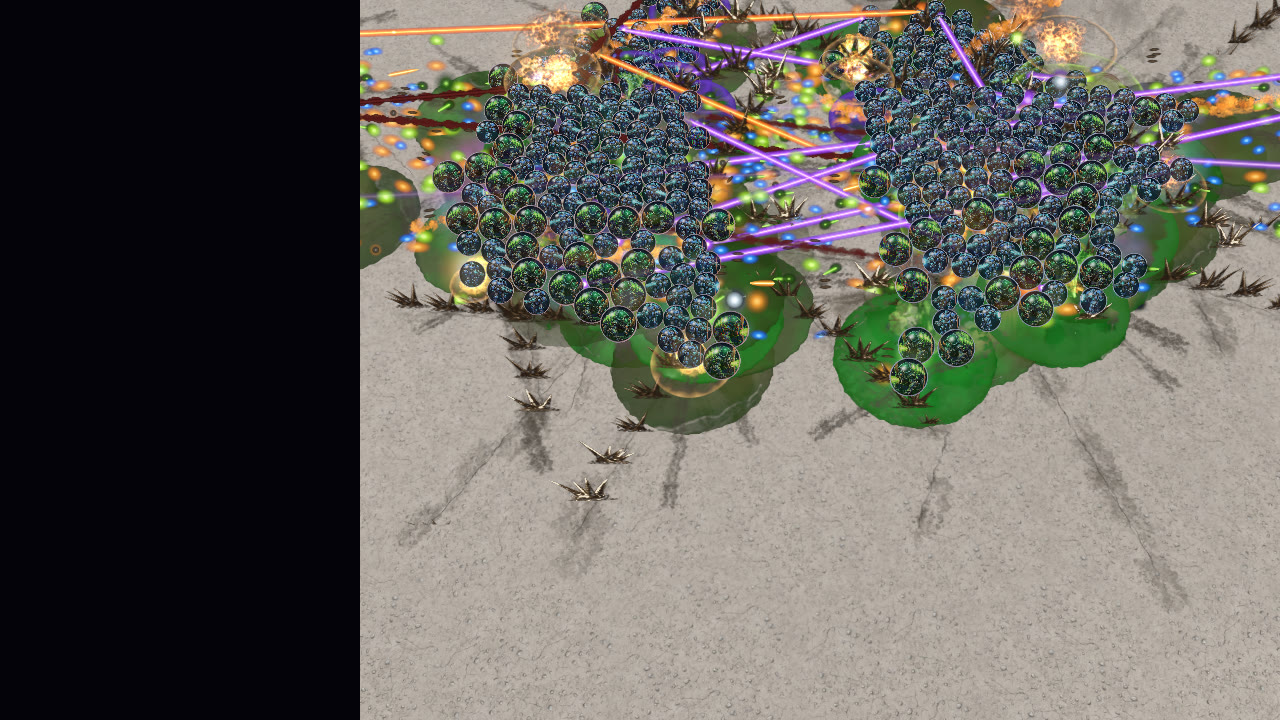
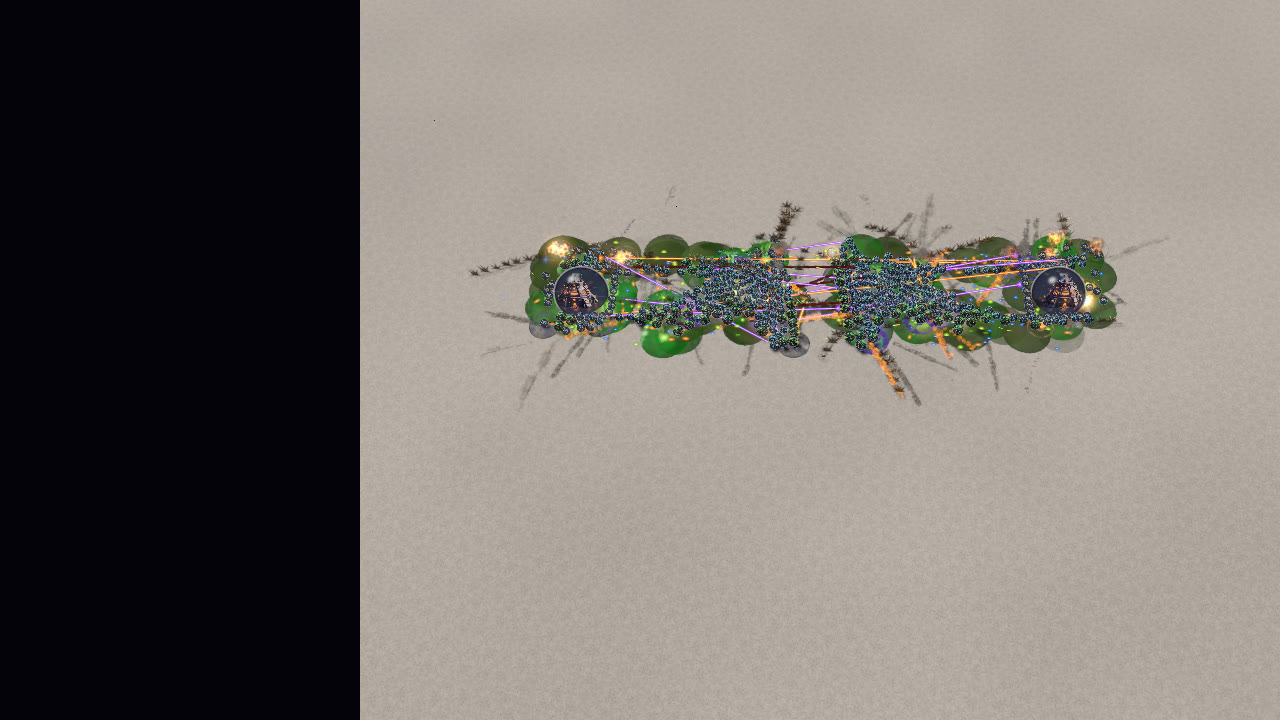
docs(effects WP14): round 2 packet section, crowd frames retaken at the far view (W14-6)
The crowd frames are retaken at the spec's far view and tick 150, as in WP6c, so the whole fight
is in frame; frame_budget_wp14.md gives their figures. The review packet's "WP14 round 2" section
answers each finding of independent_review_wp14_1.md, with the entrench strip.

Claude-Session: https://claude.ai/code/session_01Tj7a5XZ4mBxWXnyoUg8xVU

diff --git a/docs/evidence/effects/review/independent_review_packet.md b/docs/evidence/effects/review/independent_review_packet.md
@@ -7,6 +7,23 @@ effects against each of the seven checklist items, write **accept** or **reject*
 sheet, which cell or frame, what you see), and put your review in a new file next to this one
 (round 5: `independent_review_round5.md`, see "Round 5" below).
 
+## WP14 round 2 (the conditions of `independent_review_wp14_1.md`)
+
+Branch `effects-viz-wp14`; plan Amendment 31 (corrected in place). Pictures on radv, release build, 1280x720.
+Please write the review of this round (if one is asked) to `independent_review_wp14_2.md`.
+
+| Finding | Answer |
+|---|---|
+| C2, W14-2: `entrench` shows none of its looks | Re-staged in data (`showcase.ron`): the orbit is centred on the siege line (7.5, 5.5) from its open side, the hall behind it, distance 10, pitch 68°. The line holds where it spawns: the scorpions carry no weapon until they burrow, so an attack-move would leave them behind. [wp14_entrench_strip_radv.jpg](wp14_entrench_strip_radv.jpg): frames 24 to 90 of the take, every 6th, a 600x300 crop at 1:1 centred on the line. Left to right in each tile: two scorpions, three crawlers (bots at the far left, the hall at the top). The dig: the scorpions sink into their dirt (tiles 1 to 3). The mound: the brown stain spreading under the scorpions (from tile 2 on). The seal sweep: the dark arcs round the crawlers while they seal (tiles 1 to 8). The anchor: the crawlers in their sieged clip from tile 8, with the anchor's dark pads beside them (clearest at the right of the last tiles; small at this zoom, which is the orchestrator's check of W14-2). The take's own check passed (all four spawned), and the effects battle is unchanged (the camera only) |
+| C2, W14-3: the scenario's comment | Rewritten to the orders the file gives |
+| C1, W14-1: cost attribution | Amendment 31 and `frame_budget_wp14.md` now put the +3.6 to 4.1 ms of update on the splash stream (the S arm's runs, with the reviewer's table). Registered as **B-137** in `DESIGN.md` §4: a quiet B/S/P series, a profile of S, `area_sight` only if P exceeds S, then a re-recorded baseline with the plan's stress held to +5 % (p50) |
+| C3, W14-4: `apply_initial_orders` docs | Names `EnterModes` and `NoModeSwitches`; the `NoModeSwitches` test loads the skirmish's own map |
+| C3, W14-5: "spawned", not "shown" | `Scene::effects`' doc, Amendment 31 and the GPU test (renamed `the_effects_take_spawns_every_effect_its_scenes_ask_for`) |
+| W14-6: the crowd frame | Retaken at WP6c's far view and tick 150, the whole fight in frame: [wp14_crowd_mix_400.jpg](wp14_crowd_mix_400.jpg), [wp14_crowd_baseline_400.jpg](wp14_crowd_baseline_400.jpg); figures in `frame_budget_wp14.md` |
+| W14-7: the pool | Amendment 31, `frame_budget_wp14.md` and the `effects.ron` comment say a refusal turns away a whole new effect (not counted by class), that no Critical layer lacked a slot at 2 048, and that 6 144 serves the every-effect measure, not a battle |
+| W14-10: the mix's invariant | Reworded: the same sources in the same order; which units an event joins depends on the frame |
+| W14-8, W14-9 | No change |
+
 ## WP14 (the showcase's effects take; every effect in the frame budget)
 
 Branch `effects-viz-wp14`; plan Amendment 31. WP14 adds no look and changes none: every effect it shows was

diff --git a/docs/evidence/effects/review/frame_budget_wp14.md b/docs/evidence/effects/review/frame_budget_wp14.md
@@ -93,15 +93,17 @@ Every arm is far under the plan's 1.5 ms. The opaque pass moves by 0.06 ms (run-
 
 ## Crowd capture (checklist item 6)
 
-`--capture-tick 300 --camera-distance 22` (review camera, not a figure of record):
-[`wp14_crowd_mix_400.jpg`](wp14_crowd_mix_400.jpg) with every effect,
-[`wp14_crowd_baseline_400.jpg`](wp14_crowd_baseline_400.jpg) without. At tick 300 with every effect: 3 166 live effects, 4 305 cards, 3 154 decals; effect footprints cover
-69.0 % of the screen (union, transparent texels included, so an upper bound), summed footprint area 12.4 screens,
-at most 85 footprints on one 4-pixel cell. Without: 67 live effects, footprints 2.9 %. The closer review camera
-frames about a quarter of the battle, so these shares are not comparable with WP6c's far view (25.3 %). Every
-cluster of the baseline frame is visible in the stressed one. The mix's shots fly between two hashed units, so
-its beams and tracers cross the whole fight, which a battle's shots (at weapon range) never do: the frame is
-busier than any battle would be.
+`--capture-tick 150` at the spec's far view, as in WP6c (retaken in review round 2, W14-6; the first take used a
+closer review camera that cut the fight at the frame's top): [`wp14_crowd_mix_400.jpg`](wp14_crowd_mix_400.jpg)
+with every effect, [`wp14_crowd_baseline_400.jpg`](wp14_crowd_baseline_400.jpg) without. Not figures of record.
+At tick 150 with every effect: 2 283 live effects, 2 877 cards, 3 203 decals; effect footprints cover 15.1 % of the
+screen (union, transparent texels included, so an upper bound), summed footprint area 1.9 screens, at most 69
+footprints on one 4-pixel cell. Without: 60 live effects, footprints 0.17 %. WP6c's splash stream covered 25.3 %
+at the same tick and view; the mix covers less because the battle's armies stand in one row here, and the far view
+culls small layers by their size on screen. Every cluster of the baseline frame is visible in the stressed one.
+The left of the frame is off the map in both. The mix's shots fly between two hashed units, so its beams and
+tracers cross the whole fight, which a battle's shots (at weapon range) never do: the frame is busier than any
+battle would be.
 
 ## lavapipe
 
